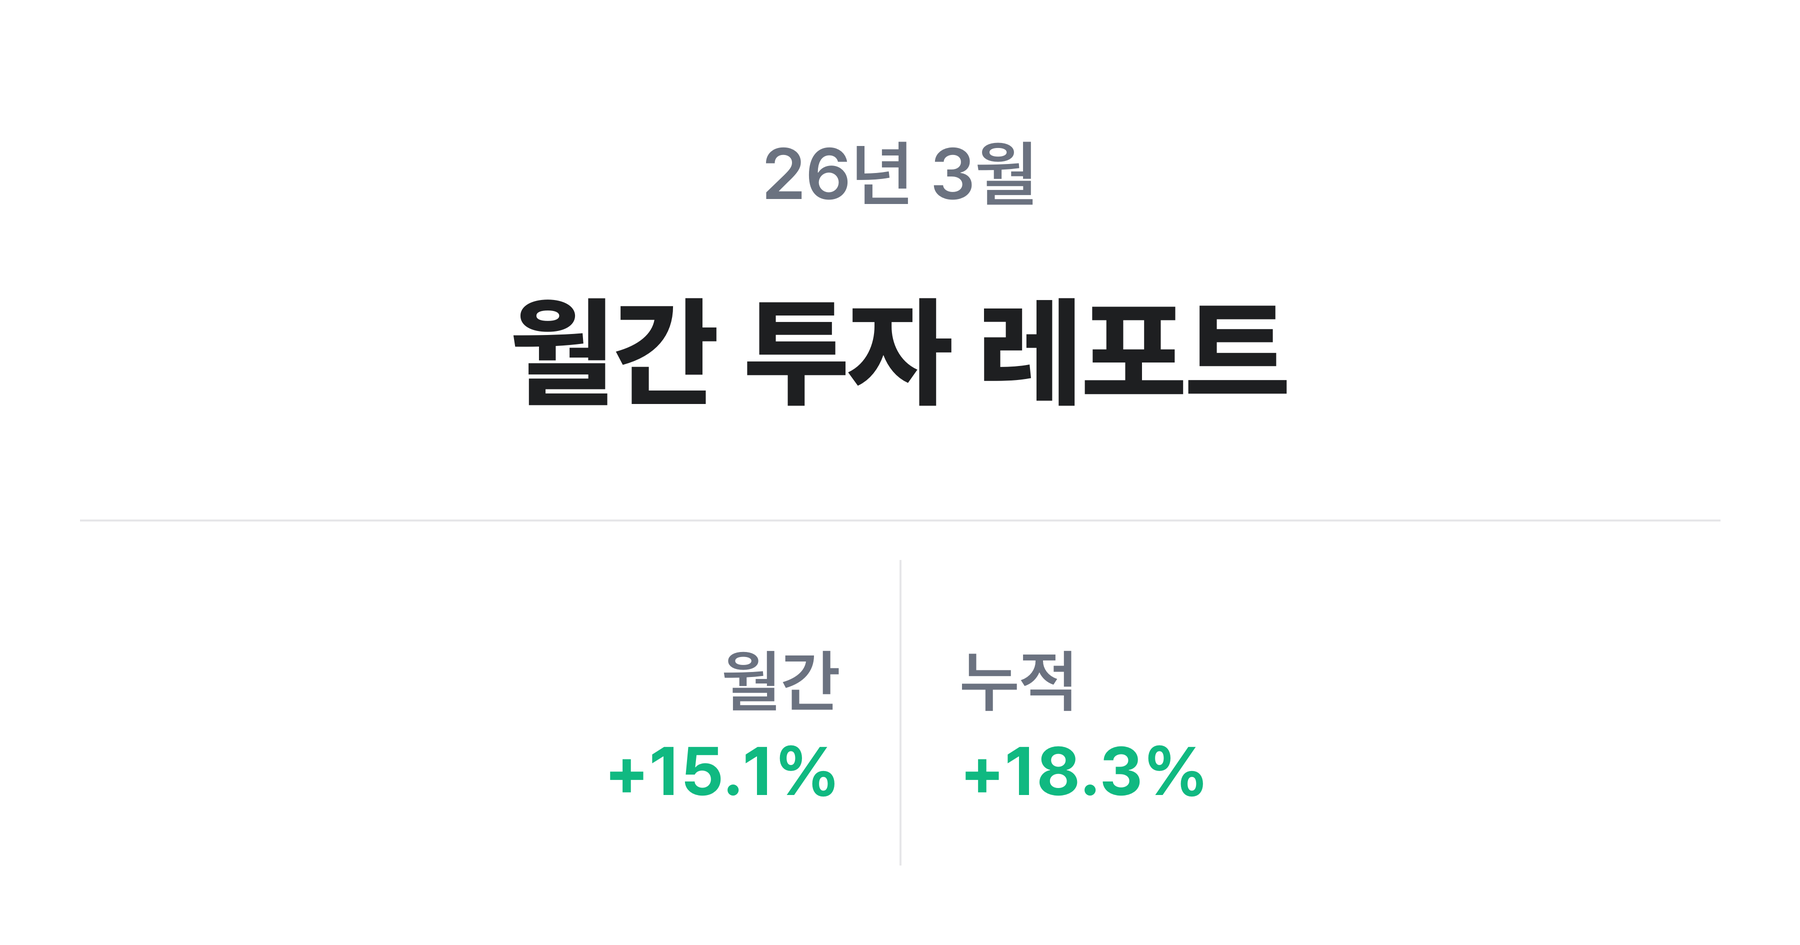
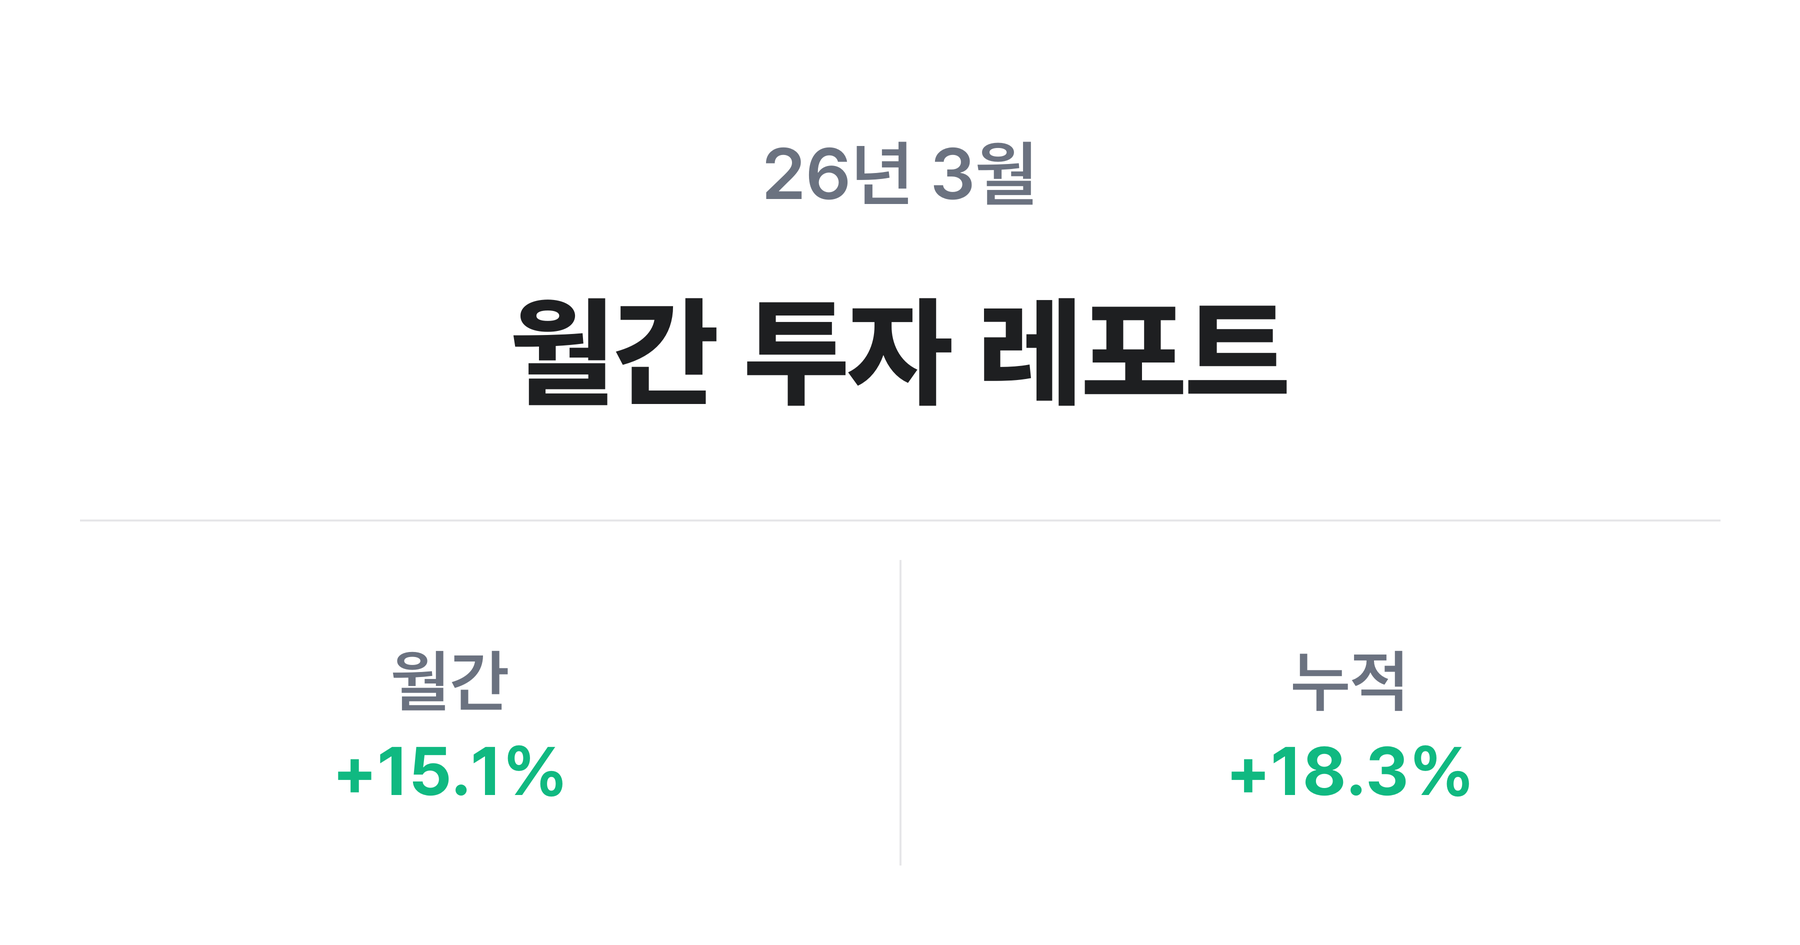
fix: 월간 대시보드 — 월간·누적 각 칸 중앙 정렬

diff --git a/scripts/generate_monthly_dashboard.py b/scripts/generate_monthly_dashboard.py
@@ -81,12 +81,12 @@ def generate_monthly_dashboard(year, month, monthly_roi, cumulative_roi, output_
   <line x1="80" y1="520" x2="{W - 80}" y2="520"
         stroke="{BORDER}" stroke-width="2"/>
 
-  <!-- 월간 (좌) -->
-  <text x="{sep_x - 60}" y="{bottom_y}" text-anchor="end"
+  <!-- 월간 (좌 칸 중앙) -->
+  <text x="{mid_x // 2}" y="{bottom_y}" text-anchor="middle"
         font-size="68" font-weight="600" fill="{TEXT_GRAY}">
     월간
   </text>
-  <text x="{sep_x - 60}" y="{bottom_y + 90}" text-anchor="end"
+  <text x="{mid_x // 2}" y="{bottom_y + 90}" text-anchor="middle"
         font-size="68" font-weight="700" fill="{monthly_color}">
     {monthly_roi_str}
   </text>
@@ -95,12 +95,12 @@ def generate_monthly_dashboard(year, month, monthly_roi, cumulative_roi, output_
   <line x1="{sep_x}" y1="580" x2="{sep_x}" y2="{H - 80}"
         stroke="{BORDER}" stroke-width="2"/>
 
-  <!-- 누적 (우) -->
-  <text x="{sep_x + 60}" y="{bottom_y}" text-anchor="start"
+  <!-- 누적 (우 칸 중앙) -->
+  <text x="{mid_x + mid_x // 2}" y="{bottom_y}" text-anchor="middle"
         font-size="68" font-weight="600" fill="{TEXT_GRAY}">
     누적
   </text>
-  <text x="{sep_x + 60}" y="{bottom_y + 90}" text-anchor="start"
+  <text x="{mid_x + mid_x // 2}" y="{bottom_y + 90}" text-anchor="middle"
         font-size="68" font-weight="700" fill="{cumulative_color}">
     {cumulative_roi_str}
   </text>
@@ -157,22 +157,24 @@ def generate_monthly_dashboard(year, month, monthly_roi, cumulative_roi, output_
         # 세로 구분선
         draw.line([(W, ly + 80), (W, H * 2 - 160)], fill=BORDER, width=4)
 
-        sep_gap = 120  # 세로 구분선과의 간격
-
-        # 월간 (좌: 레이블 + 수치 세로)
+        # 각 칸 중앙: 좌=W/2, 우=W*3/2
+        left_cx = W // 2
+        right_cx = W + W // 2
         lbl_y = 1280
         val_y = 1460
+
+        # 월간 (좌 칸 중앙 정렬)
         lbl1 = "월간"
-        draw.text((W - sep_gap - tw(lbl1, fp_label), lbl_y), lbl1,
+        draw.text((left_cx - tw(lbl1, fp_label) // 2, lbl_y), lbl1,
                   fill=TEXT_GRAY, font=fp_label)
-        draw.text((W - sep_gap - tw(monthly_roi_str, fp_val), val_y), monthly_roi_str,
+        draw.text((left_cx - tw(monthly_roi_str, fp_val) // 2, val_y), monthly_roi_str,
                   fill=monthly_color, font=fp_val)
 
-        # 누적 (우: 레이블 + 수치 세로)
+        # 누적 (우 칸 중앙 정렬)
         lbl2 = "누적"
-        draw.text((W + sep_gap, lbl_y), lbl2,
+        draw.text((right_cx - tw(lbl2, fp_label) // 2, lbl_y), lbl2,
                   fill=TEXT_GRAY, font=fp_label)
-        draw.text((W + sep_gap, val_y), cumulative_roi_str,
+        draw.text((right_cx - tw(cumulative_roi_str, fp_val) // 2, val_y), cumulative_roi_str,
                   fill=cumulative_color, font=fp_val)
 
         img = img.resize((W, H), Image.LANCZOS)
